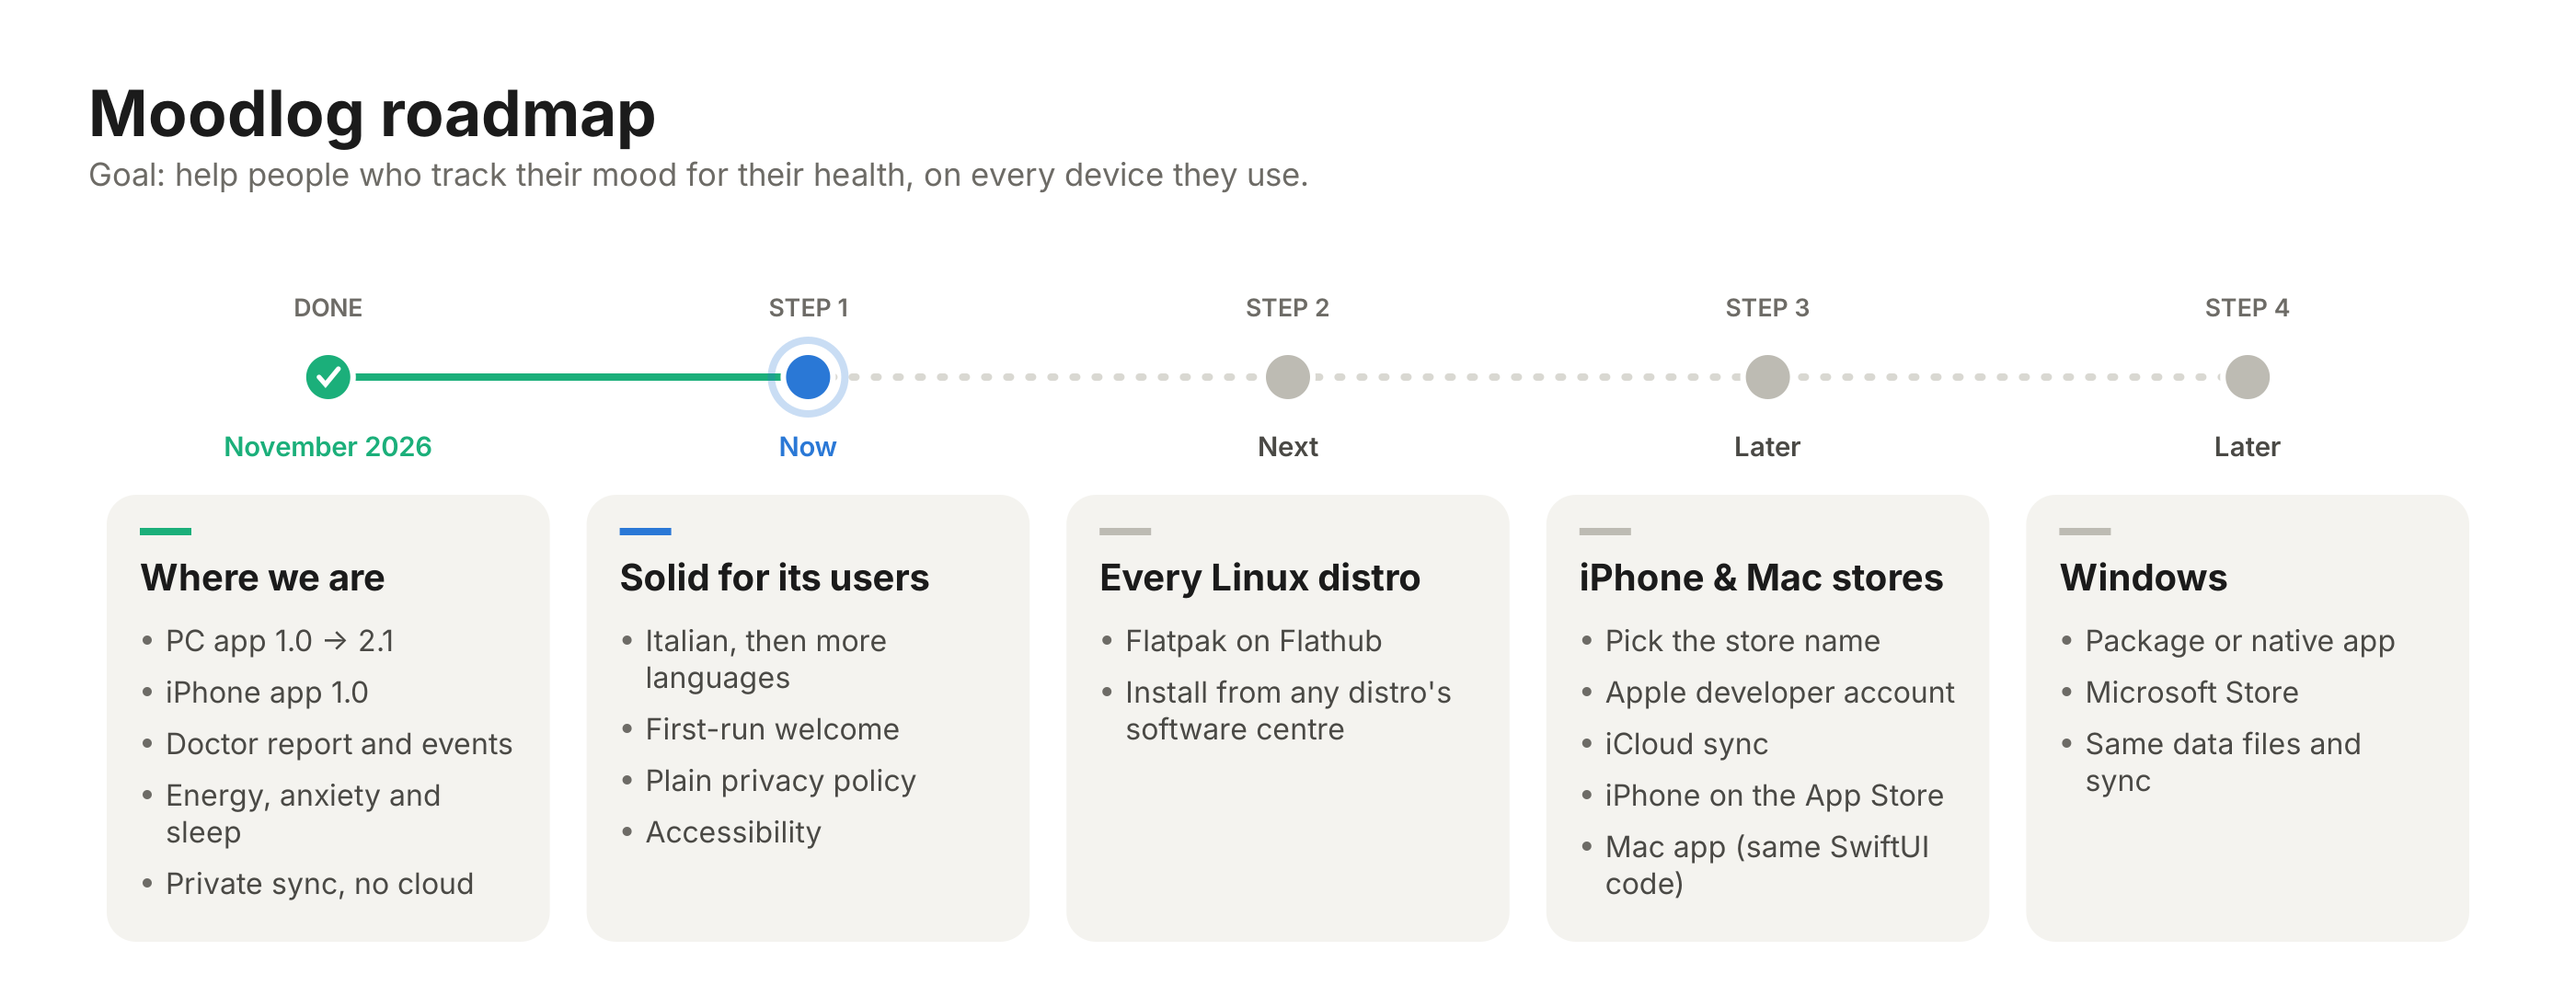
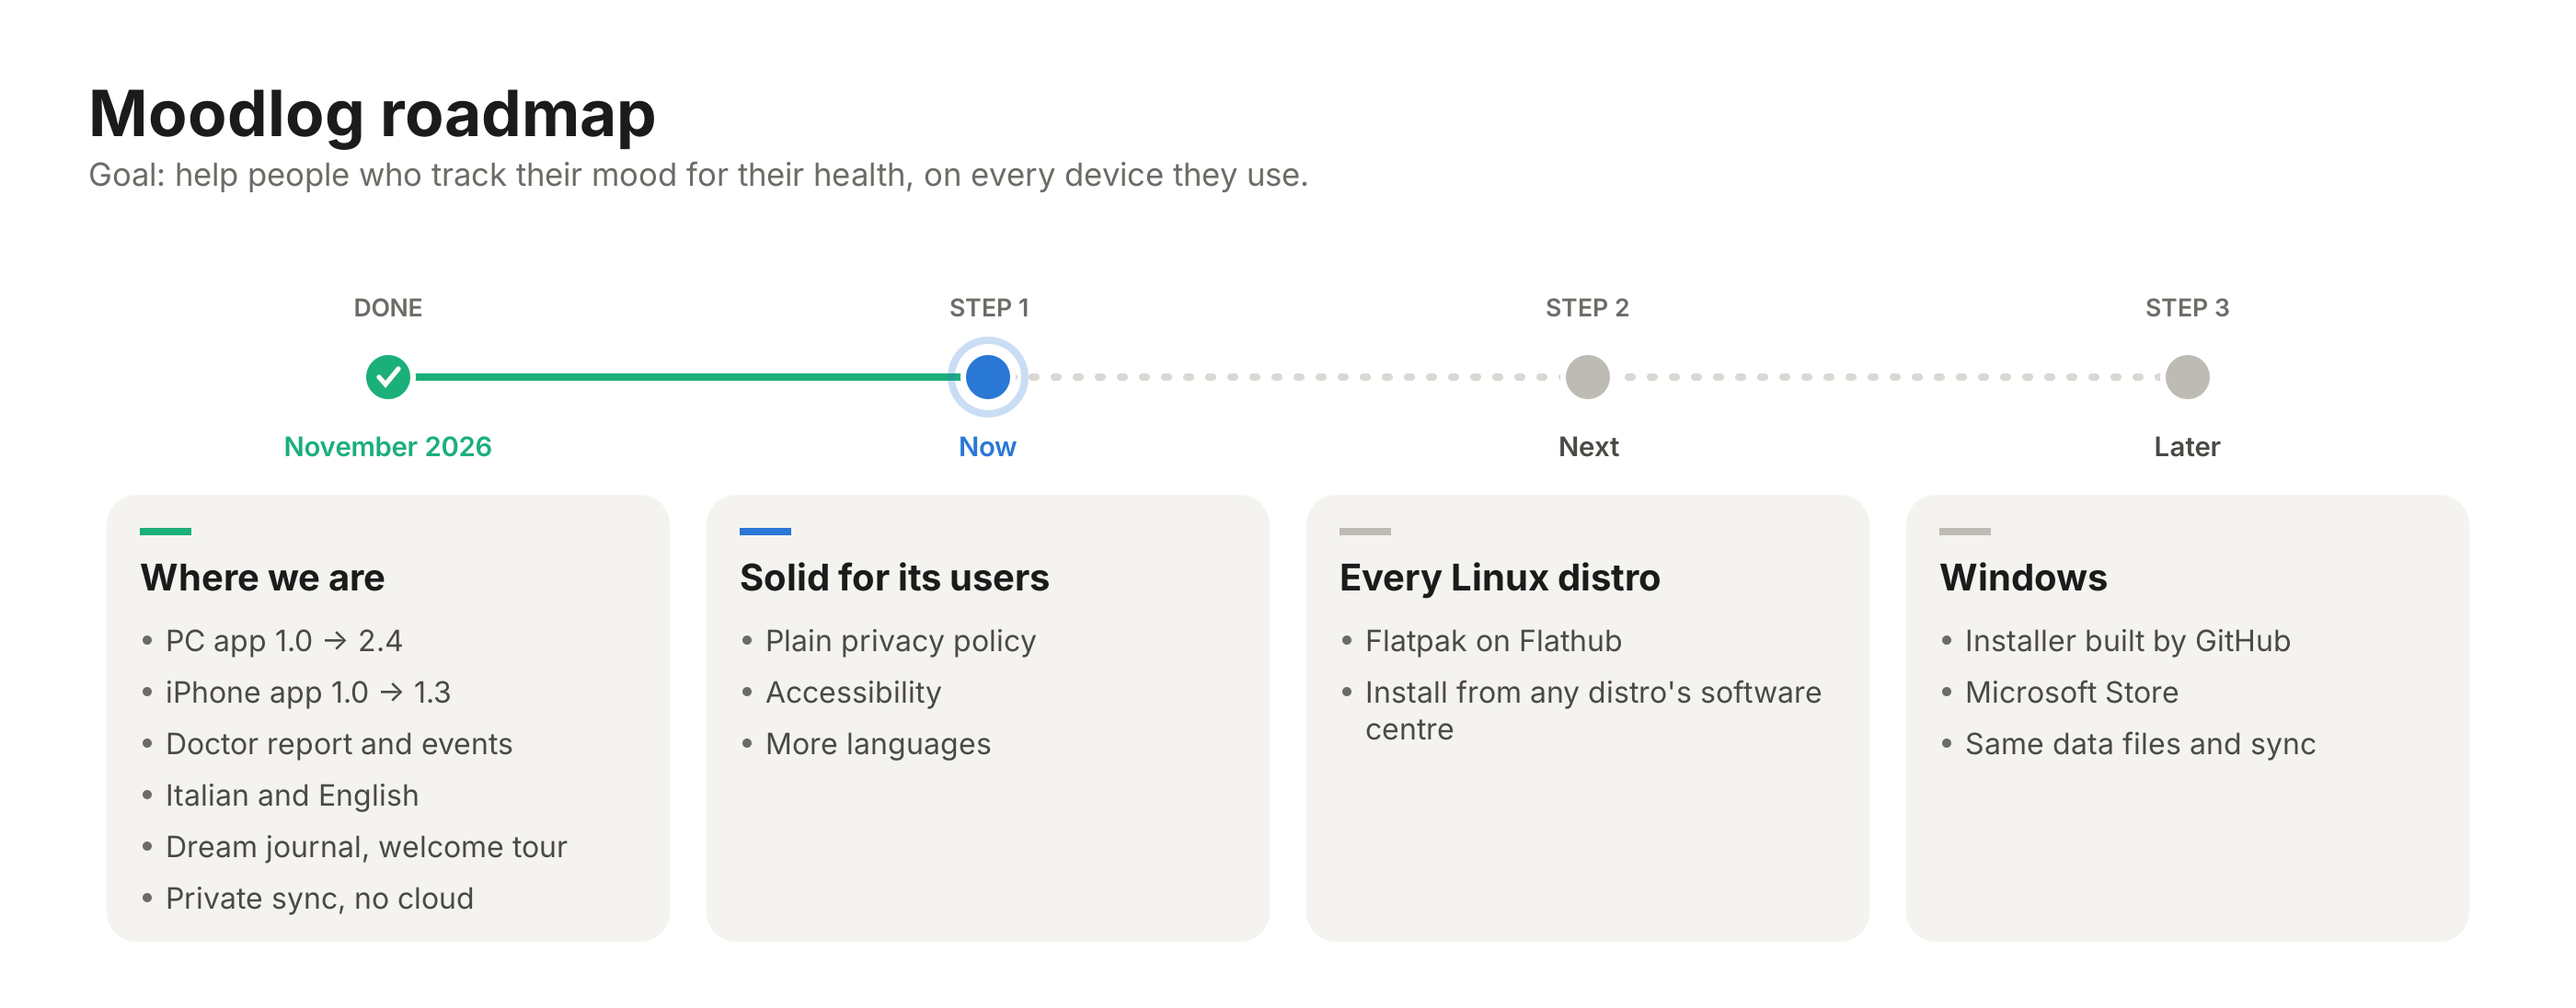
Roadmap: drop the Apple App Store and Mac App Store; Windows is now Step 3
The iPhone app stays a free download from the releases (SideStore/AltStore).
The Done list and the timeline image catch up with 2.4 / iPhone 1.3.

diff --git a/tools/roadmap_image.py b/tools/roadmap_image.py
@@ -11,19 +11,14 @@ DONE, NOW, LATER = "#1baf7a", "#2a78d6", "#bdbbb3"
 
 STAGES = [
     ("Done", "November 2026", DONE, "Where we are", [
-        "PC app 1.0 \u2192 2.1", "iPhone app 1.0", "Doctor report and events",
-        "Energy, anxiety and sleep", "Private sync, no cloud"]),
+        "PC app 1.0 \u2192 2.4", "iPhone app 1.0 \u2192 1.3", "Doctor report and events",
+        "Italian and English", "Dream journal, welcome tour", "Private sync, no cloud"]),
     ("Step 1", "Now", NOW, "Solid for its users", [
-        "Italian, then more languages", "First-run welcome",
-        "Plain privacy policy", "Accessibility"]),
+        "Plain privacy policy", "Accessibility", "More languages"]),
     ("Step 2", "Next", LATER, "Every Linux distro", [
         "Flatpak on Flathub", "Install from any distro's software centre"]),
-    ("Step 3", "Later", LATER, "iPhone & Mac stores", [
-        "Pick the store name", "Apple developer account", "iCloud sync",
-        "iPhone on the App Store", "Mac app (same SwiftUI code)"]),
-    ("Step 4", "Later", LATER, "Windows", [
-        "Package or native app", "Microsoft Store",
-        "Same data files and sync"]),
+    ("Step 3", "Later", LATER, "Windows", [
+        "Installer built by GitHub", "Microsoft Store", "Same data files and sync"]),
 ]
 
 

diff --git a/ROADMAP.md b/ROADMAP.md
@@ -11,45 +11,38 @@ starts when the previous one is done.
 
 ## Done (November 2026)
 
-- Moodlog for the PC, 1.0 → 2.1: moods with notes, energy and anxiety, events, charts,
+- Moodlog for the PC, 1.0 → 2.4: moods with notes, energy and anxiety, events, charts,
   the doctor report, CSV/XLSX export, backup and restore, two styles.
-- Moodlog for iPhone 1.0: logging on the phone, synced with the PC over home Wi-Fi.
-- Sleep, steps and heart rate from Apple Health.
+- Moodlog for iPhone, 1.0 → 1.3: logging on the phone, synced with the PC over home Wi-Fi,
+  plus sleep, steps and heart rate from Apple Health.
+- English and Italian, a dream journal, and a welcome tour on both.
 - No account and no cloud: everything is in plain files on your own devices.
 
 ## Step 1 – Solid for its users (now)
 
-- **Languages:** Italian first (done in PC 2.2.0 and iPhone 1.1.0), then others. Writing about how you feel should happen
-  in your own language.
-- **First-run welcome:** explain what to log and why, instead of an empty calendar (done in 2.4.0: the welcome tour).
-- **Privacy policy:** a short, plain one. The stores require it, and "your data never
+- **Privacy policy:** a short, plain one. App stores ask for one, and "your data never
   leaves your devices" is Moodlog's strongest promise.
 - **Accessibility:** screen-reader labels and full keyboard use.
+- **More languages**, after English and Italian. Writing about how you feel should
+  happen in your own language.
 
 ## Step 2 – Every Linux distro (next)
 
 - Publish Moodlog as a **Flatpak on Flathub**, so it installs from the software centre
   of any distribution, not only Debian/Ubuntu-based ones.
 
-## Step 3 – iPhone and Mac stores (later)
+## Step 3 – Windows (later)
 
-- **Pick the store name.** "MoodLog - Simple" already exists on the App Store in the
-  same category, so Moodlog needs a name that can't be confused with it.
-- **Apple developer account** (paid yearly). This also ends the 7-day refresh of
-  SideStore/AltStore installs.
-- **iCloud sync**, so the app works without a Linux PC at home. It stays private: no
-  servers of our own. Sync with the PC stays as an option.
-- **iPhone app on the App Store**, through TestFlight first. Health apps get a careful
-  review: no medical claims, and a clear reason for each Health permission.
-- **Mac app** built from the same SwiftUI code as the iPhone app.
-- Builds and uploads keep running on GitHub's Macs, so no Mac is needed.
-
-## Step 4 – Windows (later)
-
-- Decide between packaging the current app for Windows (faster) and a native Windows
-  app (feels more at home).
+- A Windows installer, built by GitHub for every release, so no Windows PC is needed
+  to make it.
 - Publish on the **Microsoft Store**.
 - Same data files and sync as the other versions, so people can move between devices.
+
+## Not planned
+
+- **Apple's App Store and Mac App Store.** Moodlog for iPhone stays a free download from
+  the [releases](https://github.com/Akii-G/moodlog/releases), installed with SideStore
+  or AltStore.
 
 ---
 

diff --git a/README.md b/README.md
@@ -192,8 +192,7 @@ Changes are in [CHANGELOG.md](CHANGELOG.md).
 
 Moodlog is for people who track their mood for their health and want to keep that
 data private. Next: a plain privacy policy and accessibility, then Flathub for every
-Linux distro, then the iPhone and Mac App Stores, then Windows. See
-[ROADMAP.md](ROADMAP.md) for the details.
+Linux distro, then Windows. See [ROADMAP.md](ROADMAP.md) for the details.
 
 ## Licence
 
